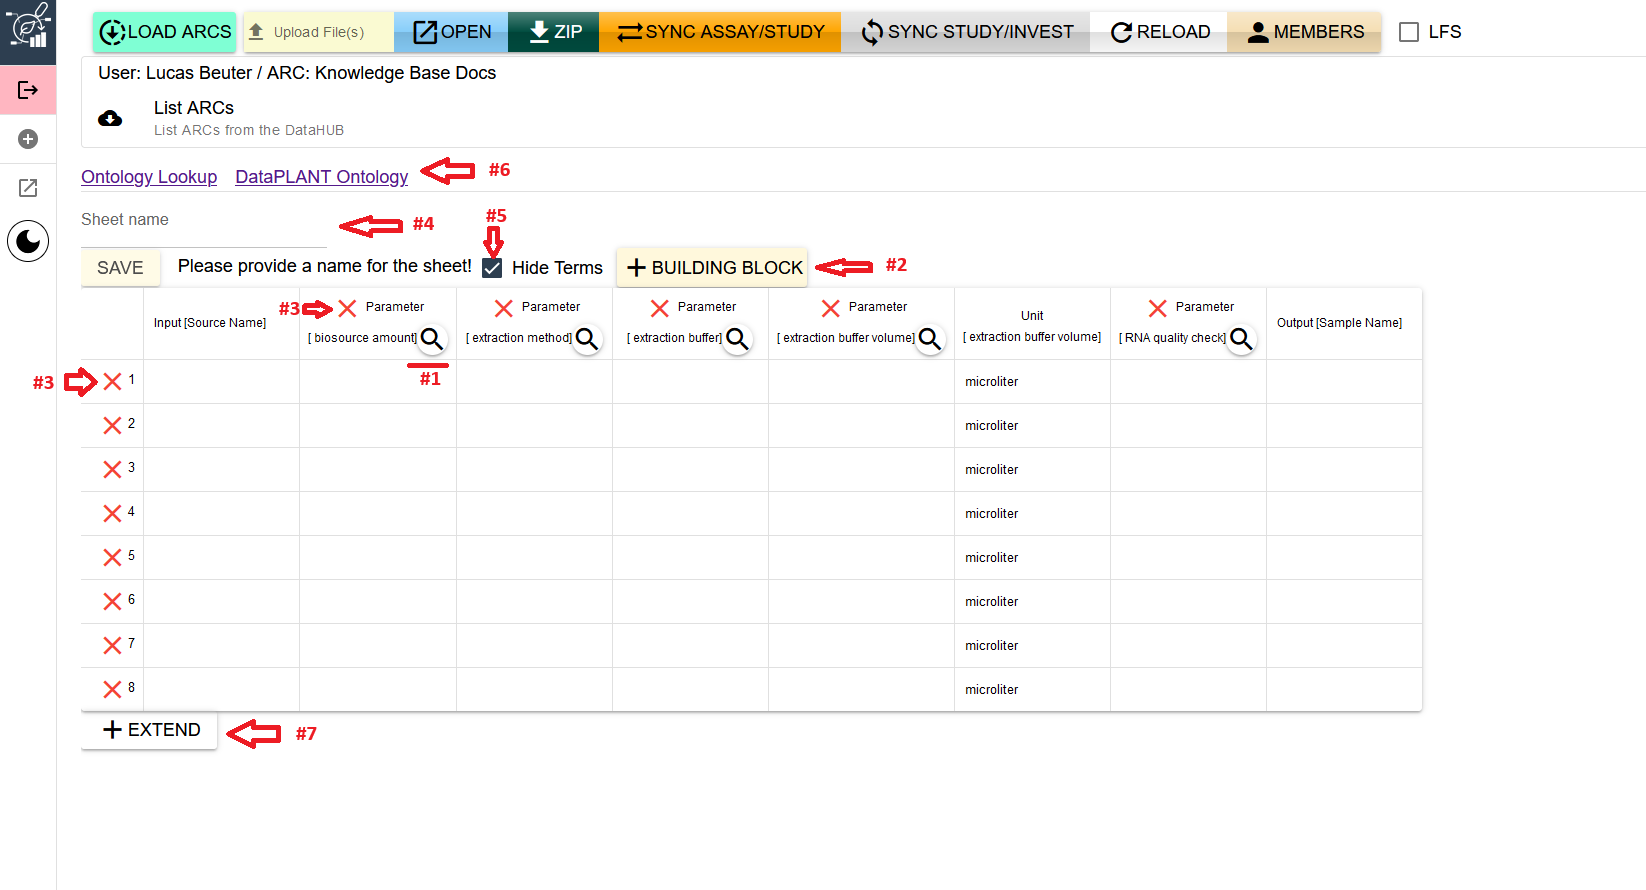
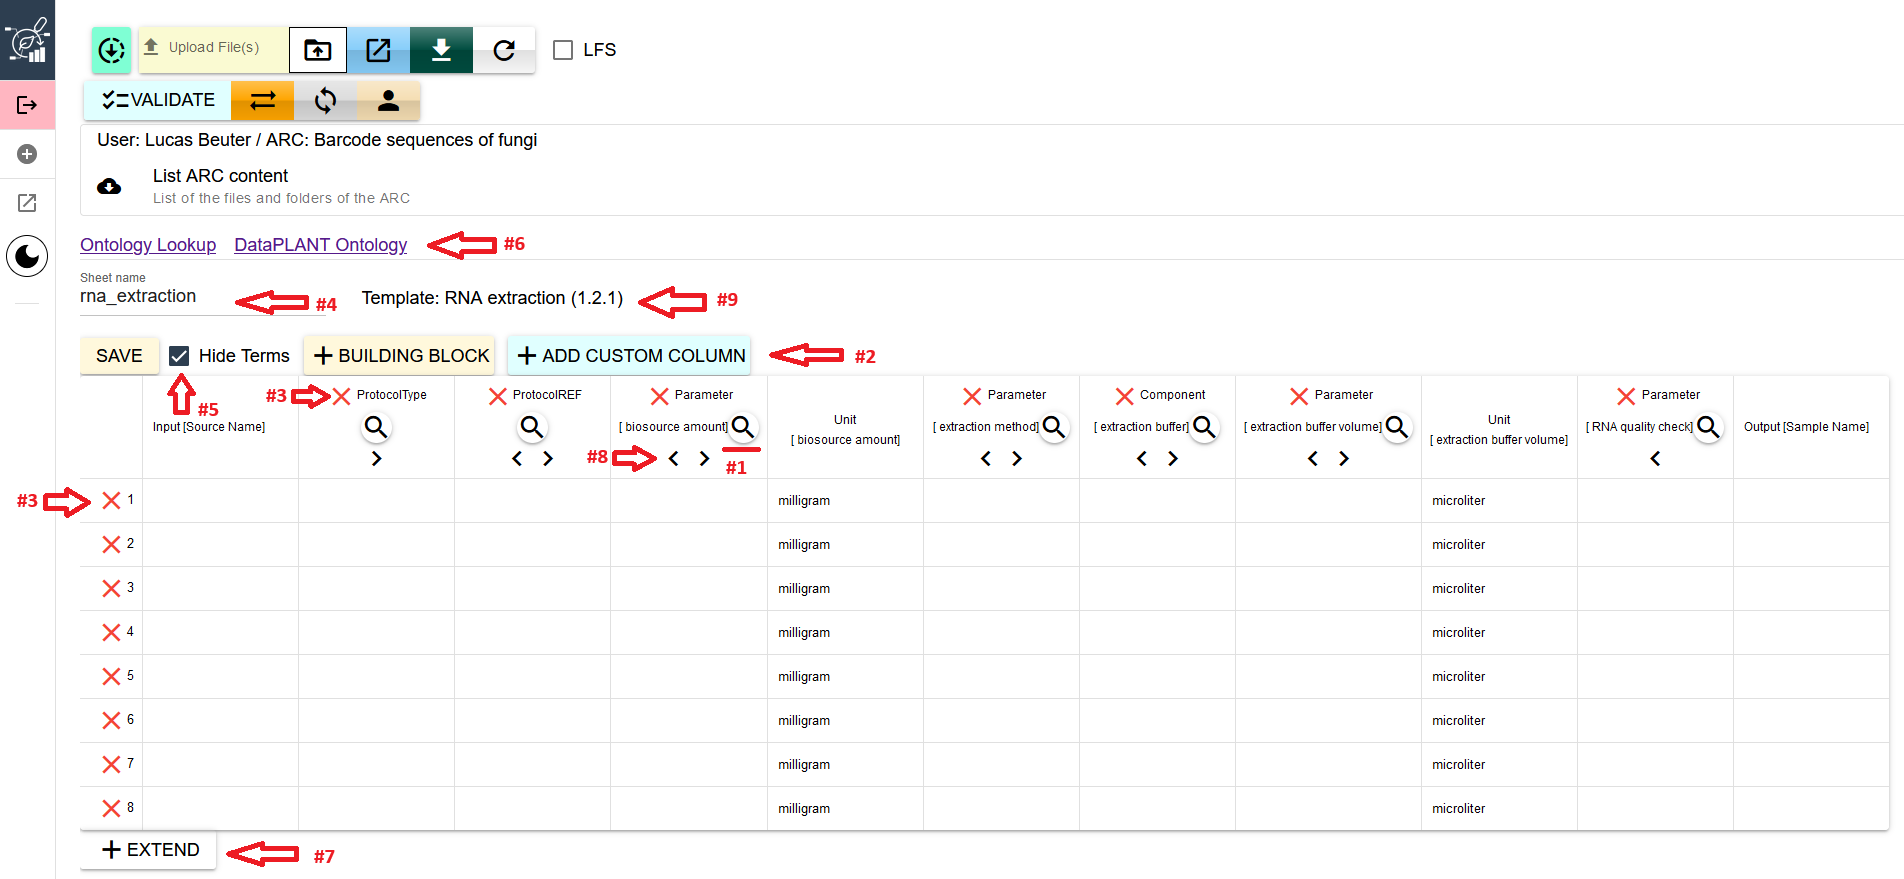
added column shift and custom columns info

diff --git a/src/docs/ARCmanager-manual/06_adding_metadata.md b/src/docs/ARCmanager-manual/06_adding_metadata.md
@@ -8,7 +8,7 @@ author:
 add toc: false
 add sidebar: _sidebars/mainSidebar.md
 status: published
-date: 2024-06-13
+date: 2024-08-27
 ---
 
 Two different types of metadata are stored in ISA files: administrative and experimental metadata. Administrative metadata covers IDs, descriptions, contact details, connected publications and more, while experimental metadata is describing experimental procedures and similar processes. ISA files are normally stored in an Excel format (.xlsx) and need to adhere to the [ISA-XLSX specification](https://github.com/nfdi4plants/ARC-specification/blob/main/ISA-XLSX.md).
@@ -18,13 +18,13 @@ A typical ISA file has the administrative metadata recorded in the first sheet o
 #### Contents:
 
 - [Administrative metadata (top-level metadata sheets)](#administrative-metadata-top-level-metadata-sheets)
-   * [Alternative view](#alternative-view) 
+  - [Alternative view](#alternative-view)
 - [Experimental metadata (annotation table sheets)](#experimental-metadata-annotation-table-sheets)
-   * [Add new annotation table sheets](#add-new-annotation-table-sheets)
-   * [Import annotation table templates](#import-annotation-table-templates)
-   * [Edit annotation table sheets](#edit-annotation-table-sheets)
-   * [Ontology term search](#ontology-term-search)
-   * [Adding new building blocks to annotation tables](#adding-new-building-blocks-to-annotation-tables)
+  - [Add new annotation table sheets](#add-new-annotation-table-sheets)
+  - [Import annotation table templates](#import-annotation-table-templates)
+  - [Edit annotation table sheets](#edit-annotation-table-sheets)
+  - [Ontology term search](#ontology-term-search)
+  - [Adding new building blocks to annotation tables](#adding-new-building-blocks-to-annotation-tables)
 
 ### Administrative Metadata (top-level metadata sheets)
 
@@ -58,7 +58,7 @@ In assay metadata files (_isa.assay.xlsx_), it contains information about measur
 
 The **publication** part contains information about DOIs, publication titles, authors, etc. of publications that are associated with the experimental data stored inside the study/investigation.
 
-_isa.assay.xlsx_ files do not contain publication data, which is instead recorded in the connected study. 
+_isa.assay.xlsx_ files do not contain publication data, which is instead recorded in the connected study.
 
 The **contact details** part contains data about researchers associated with the investigation/study/assay. It contains information like first and last name, email, work address, and affiliation. Every ISA file has a contact section.
 
@@ -68,7 +68,7 @@ When you are done with your changes, just click the `SAVE` button in the bottom 
 
 <div style="text-align: right">
 
-[Back to table of contents](#contents) 
+[Back to table of contents](#contents)
 
 </div>
 
@@ -104,7 +104,7 @@ Every time you click `SAVE`, the data is written into the excel file and changes
 
 <div style="text-align: right">
 
-[Back to table of contents](#contents) 
+[Back to table of contents](#contents)
 
 </div>
 
@@ -127,7 +127,7 @@ If you already have some annotation sheets in your study/assay you can click `ED
 
 <div style="text-align: right">
 
-[Back to table of contents](#contents) 
+[Back to table of contents](#contents)
 
 </div>
 
@@ -149,16 +149,15 @@ Every Template is listed with its title, the organisation where its originating 
 
 If you found your desired template, click on the `IMPORT` button after expand it.
 
-
 <div style="text-align: right">
 
-[Back to table of contents](#contents) 
+[Back to table of contents](#contents)
 
 </div>
 
 #### Edit annotation table sheets
 
-After importing a template, you will see a table similar to the picture below. In this case it's the template "RNA extraction (DataPLANT) 1.2.0", extended to eight rows.
+After importing a template, you will see a table similar to the picture below. In this case it's the template "RNA extraction (DataPLANT) 1.2.1", extended to eight rows.
 
 ---
 
@@ -172,7 +171,8 @@ The following will explain the different interfaces:
 
 1. **Search term:** A click on the magnifying glass symbols opens a search bar above the sheet name bar (4). The search bar allows you to search for specific ontology terms or to get suggestions for terms that fit the parameter.
 
-2. **Add building block:** Clicking this button will open up additional input fields above that allow adding new columns to the metadata table.
+2. **Add building block or custom column:** Clicking **Building Block** will open up additional input fields above that allow adding new columns to the metadata table. You can search for terms and add a new parameter or more.
+   Clicking **Custom Column** will open up a different input field above with which you can add a fully customizable columns (with term columns or unit column if desired).
 
 3. **Delete row/column:** Clicking the red "X" will delete the corresponding row or building block. The deletion of elements has to be confirmed in a pop-up menu before the action takes effect.
 
@@ -184,9 +184,13 @@ The following will explain the different interfaces:
 
 7. **Extend the table:** This button adds a new row to table.
 
+8. **Move a column:** You can shift a column to the left or right by clicking the respective arrow.
+
+9. **Template Name:** The name of the template currently in use is displayed next to the sheet name field.
+
 <div style="text-align: right">
 
-[Back to table of contents](#contents) 
+[Back to table of contents](#contents)
 
 </div>
 
@@ -230,7 +234,7 @@ Every cell of the annotation table sheets can also be filled out manually, inste
 
 <div style="text-align: right">
 
-[Back to table of contents](#contents) 
+[Back to table of contents](#contents)
 
 </div>
 
@@ -248,11 +252,11 @@ By default, input columns have the type "Source Name" and output columns have th
 
 ---
 
-To add additional attribute columns to the annotation sheet, click the `+BUILDING BLOCK` button. A new input area (Fig. 11) will open above the annotation table that assists you in designing the attribute column according to the ISA-XLSX specifications. 
+To add additional attribute columns to the annotation sheet, click the `+BUILDING BLOCK` button. A new input area (Fig. 11) will open above the annotation table that assists you in designing the attribute column according to the ISA-XLSX specifications.
 
 First, select a type for the new column from the drop-down menu (Fig. 11, 1). Available column types are [Characteristic](https://github.com/nfdi4plants/ARC-specification/blob/main/ISA-XLSX.md#characteristics), [Factor](https://github.com/nfdi4plants/ARC-specification/blob/main/ISA-XLSX.md#factors), [Component](https://github.com/nfdi4plants/ARC-specification/blob/main/ISA-XLSX.md#components), [Parameter](https://github.com/nfdi4plants/ARC-specification/blob/main/ISA-XLSX.md#parameters), [Comment](https://github.com/nfdi4plants/ARC-specification/blob/main/ISA-XLSX.md#comments), and [Protocol](https://github.com/nfdi4plants/ARC-specification/blob/main/ISA-XLSX.md#protocol-columns).
 
-Below the column type drop-down menu is a search bar that can be used to search for ontology terms that specify the contents of the new building block (Fig. 11, 2). 
+Below the column type drop-down menu is a search bar that can be used to search for ontology terms that specify the contents of the new building block (Fig. 11, 2).
 
 If the new building block will contain numeric values that have a unit, check the "Unit?" checkbox above (Fig. 11, 3). This will add a second search bar where you can search the ontology database for unit terms, like "liter" for the parameter "volume".
 
@@ -262,6 +266,6 @@ When you are done with editing the annotation table, name your sheet and click t
 
 <div style="text-align: right">
 
-[Back to table of contents](#contents) 
+[Back to table of contents](#contents)
 
 </div>

diff --git a/src/docs/ARCmanager-manual/02_login.md b/src/docs/ARCmanager-manual/02_login.md
@@ -5,10 +5,13 @@ author:
   - name: Ursula Eberhardt
     github: https://github.com/UrsulaE/
     orcid: https://orcid.org/0000-0003-1221-7074
+  - name: Lucas Beuter
+    github: https://github.com/Lu98Be
+    orcid: https://orcid.org/0009-0008-8744-825X
 add toc: false
 add sidebar: _sidebars/mainSidebar.md
 status: published
-date: 2024-06-13
+date: 2024-08-27
 ---
 
 To be able to use the [ARCmanager](https://nfdi4plants.de/arcmanager/app/index.html), you need to have registered to one of the DataHUBs. Information on the different DataHUBs can be found [here](https://www.nfdi4plants.de/content/datahub.html).
